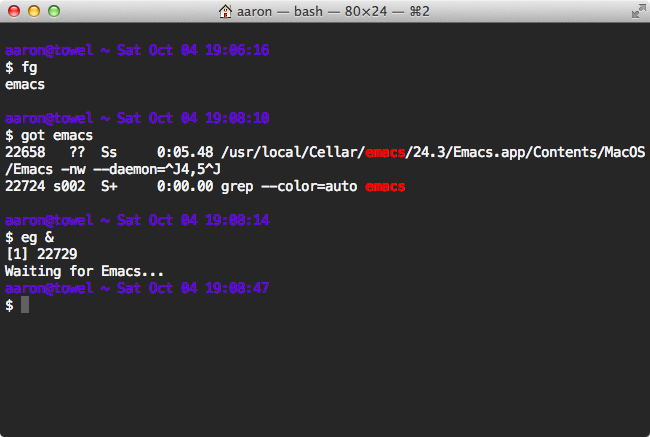
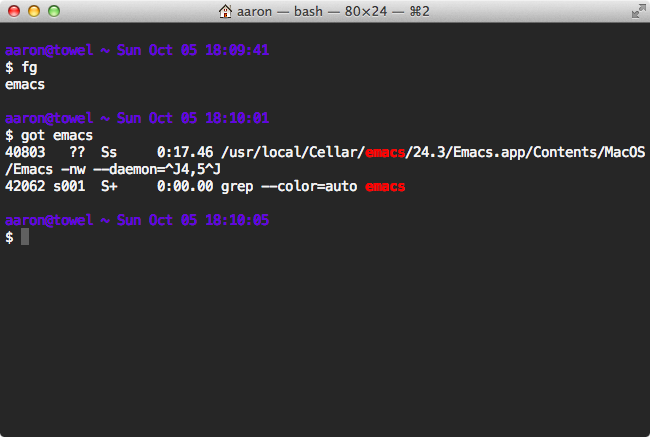
up to the graphical switch

diff --git a/README.md b/README.md
@@ -92,15 +92,31 @@ keybindings, or should, and they can be used in many places.
 If you want, the many places you use Emacs can be all inside Emacs.
 Here I'm just finishing an email.
 
+Probably the biggest attraction of Emacs is its customizability. Part
+of that is in selecting which parts you use.
+
 
     C-c C-c
-    C-z
+    C-x C-c
+    got emacs
+
+![](screenshots/emacs_daemon.png)
+
+Emacs can run client-server. I use this way of running Emacs to get a
+lot of the same benefits that you get with [screen][] or [tmux][]. I
+don't lose anything if a network connection dies, and it's also just
+faster to start up the Emacs client.
+
+[screen]: http://www.gnu.org/software/screen/
+[tmux]: http://tmux.sourceforge.net/
+
+
+    e
+    M-x shell
     got emacs
     eg &
 
-![](new image)
-
-
+![](screenshots/emacs_shell.png)
 
 Base Emacs includes a lot, and you can manage in base Emacs. you
 probably won't want to use stock Emacs. It's best to think of Emacs
@@ -112,8 +128,6 @@ get into using Emacs well in the past several months. There are
 probably several people here who are better with Emacs than me. I look
 forward to getting your feedback and advice for improving.
 
-
-![](screenshots/emacs_daemon.png)
 
 ![](screenshots/clone_django.png)
 
